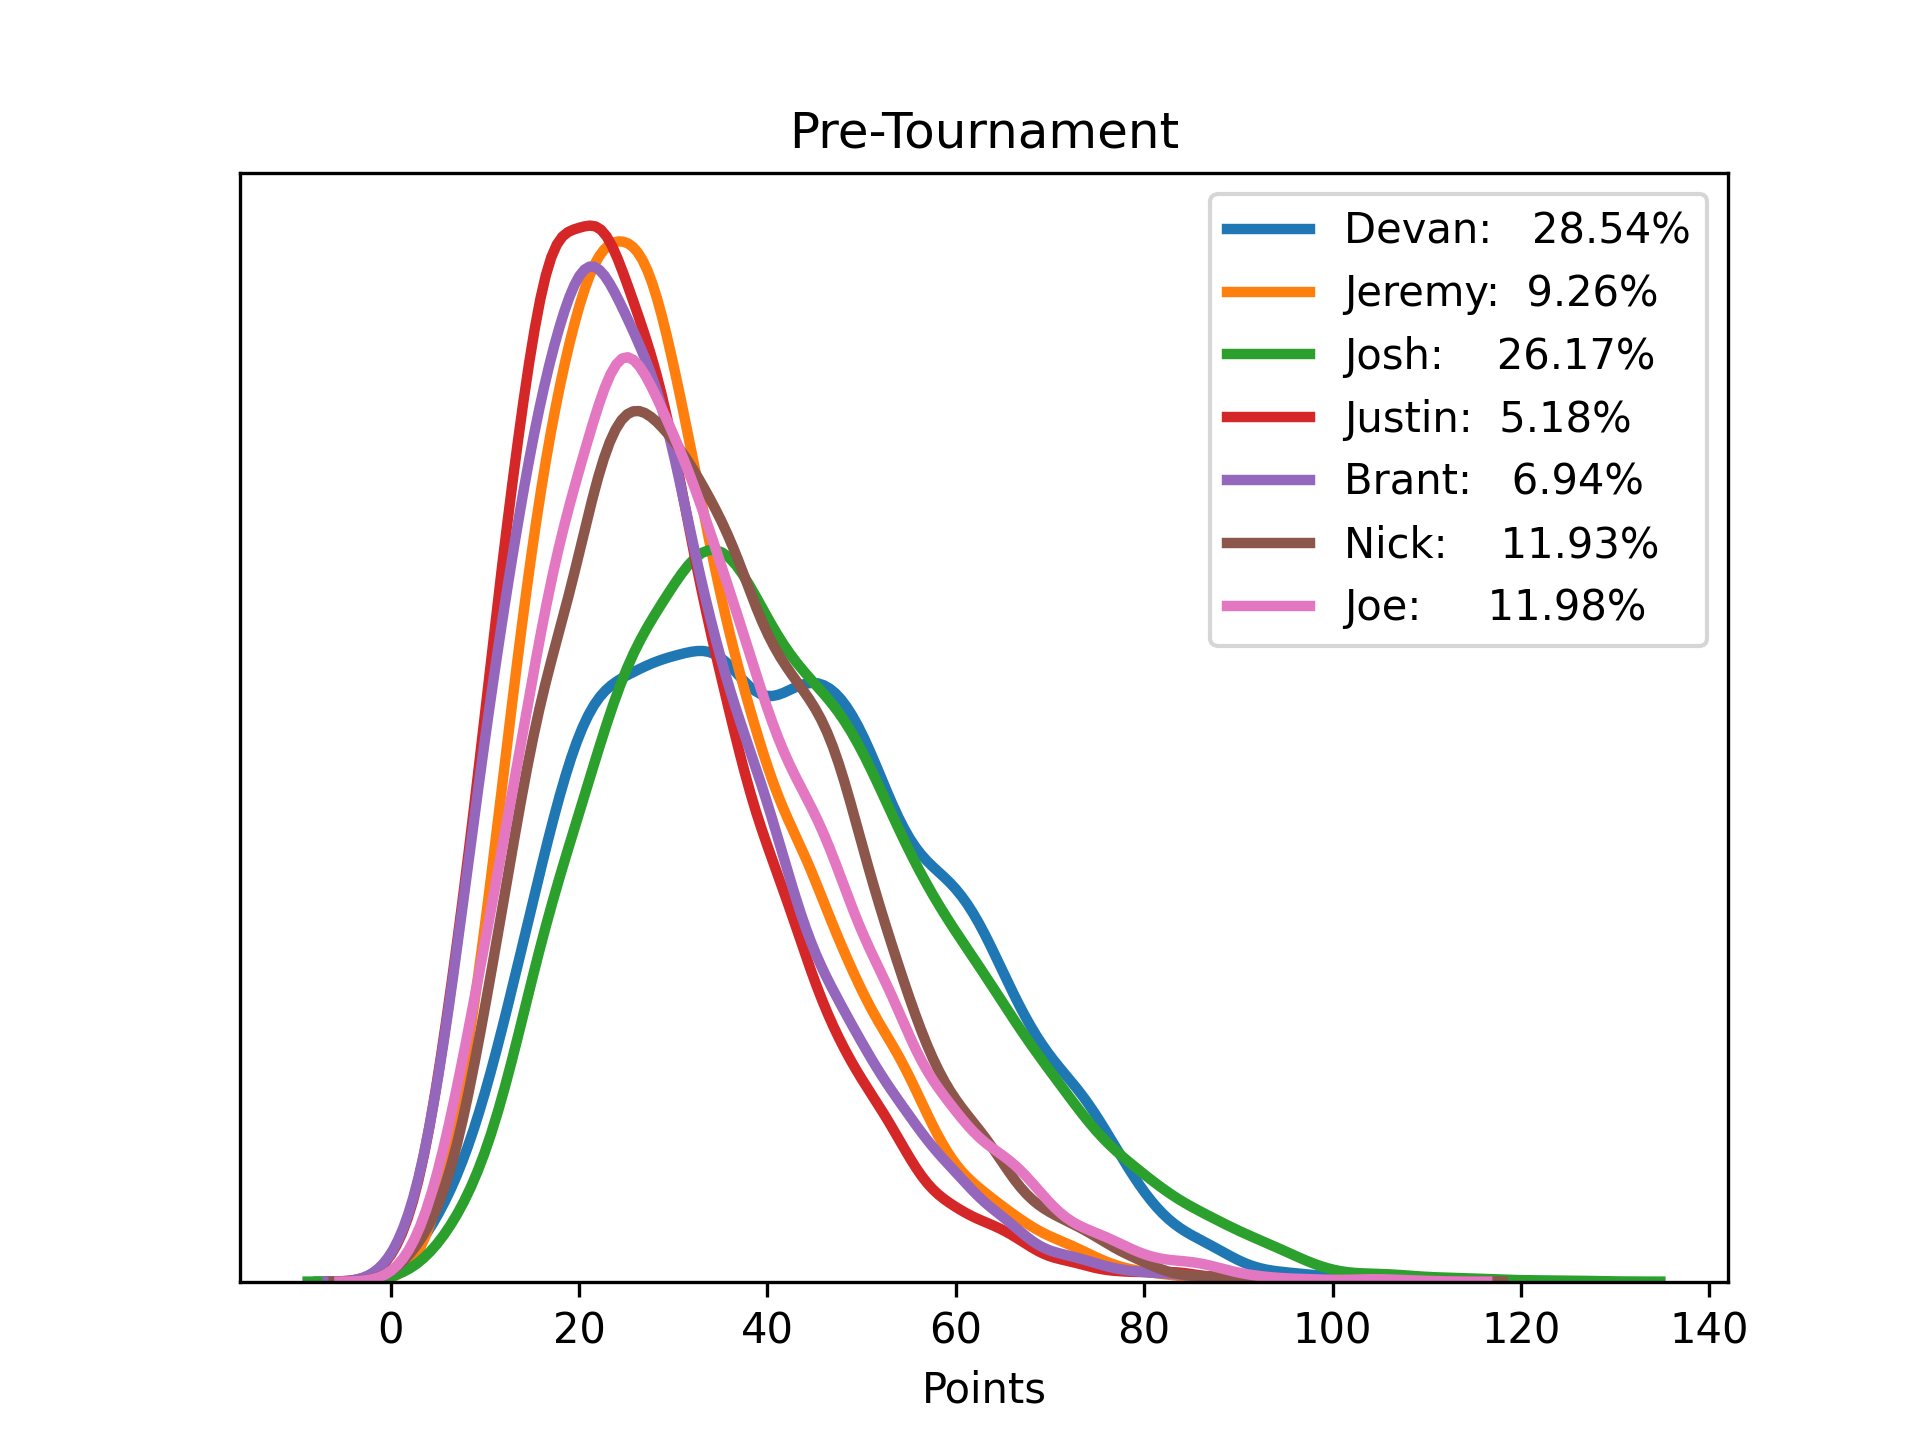
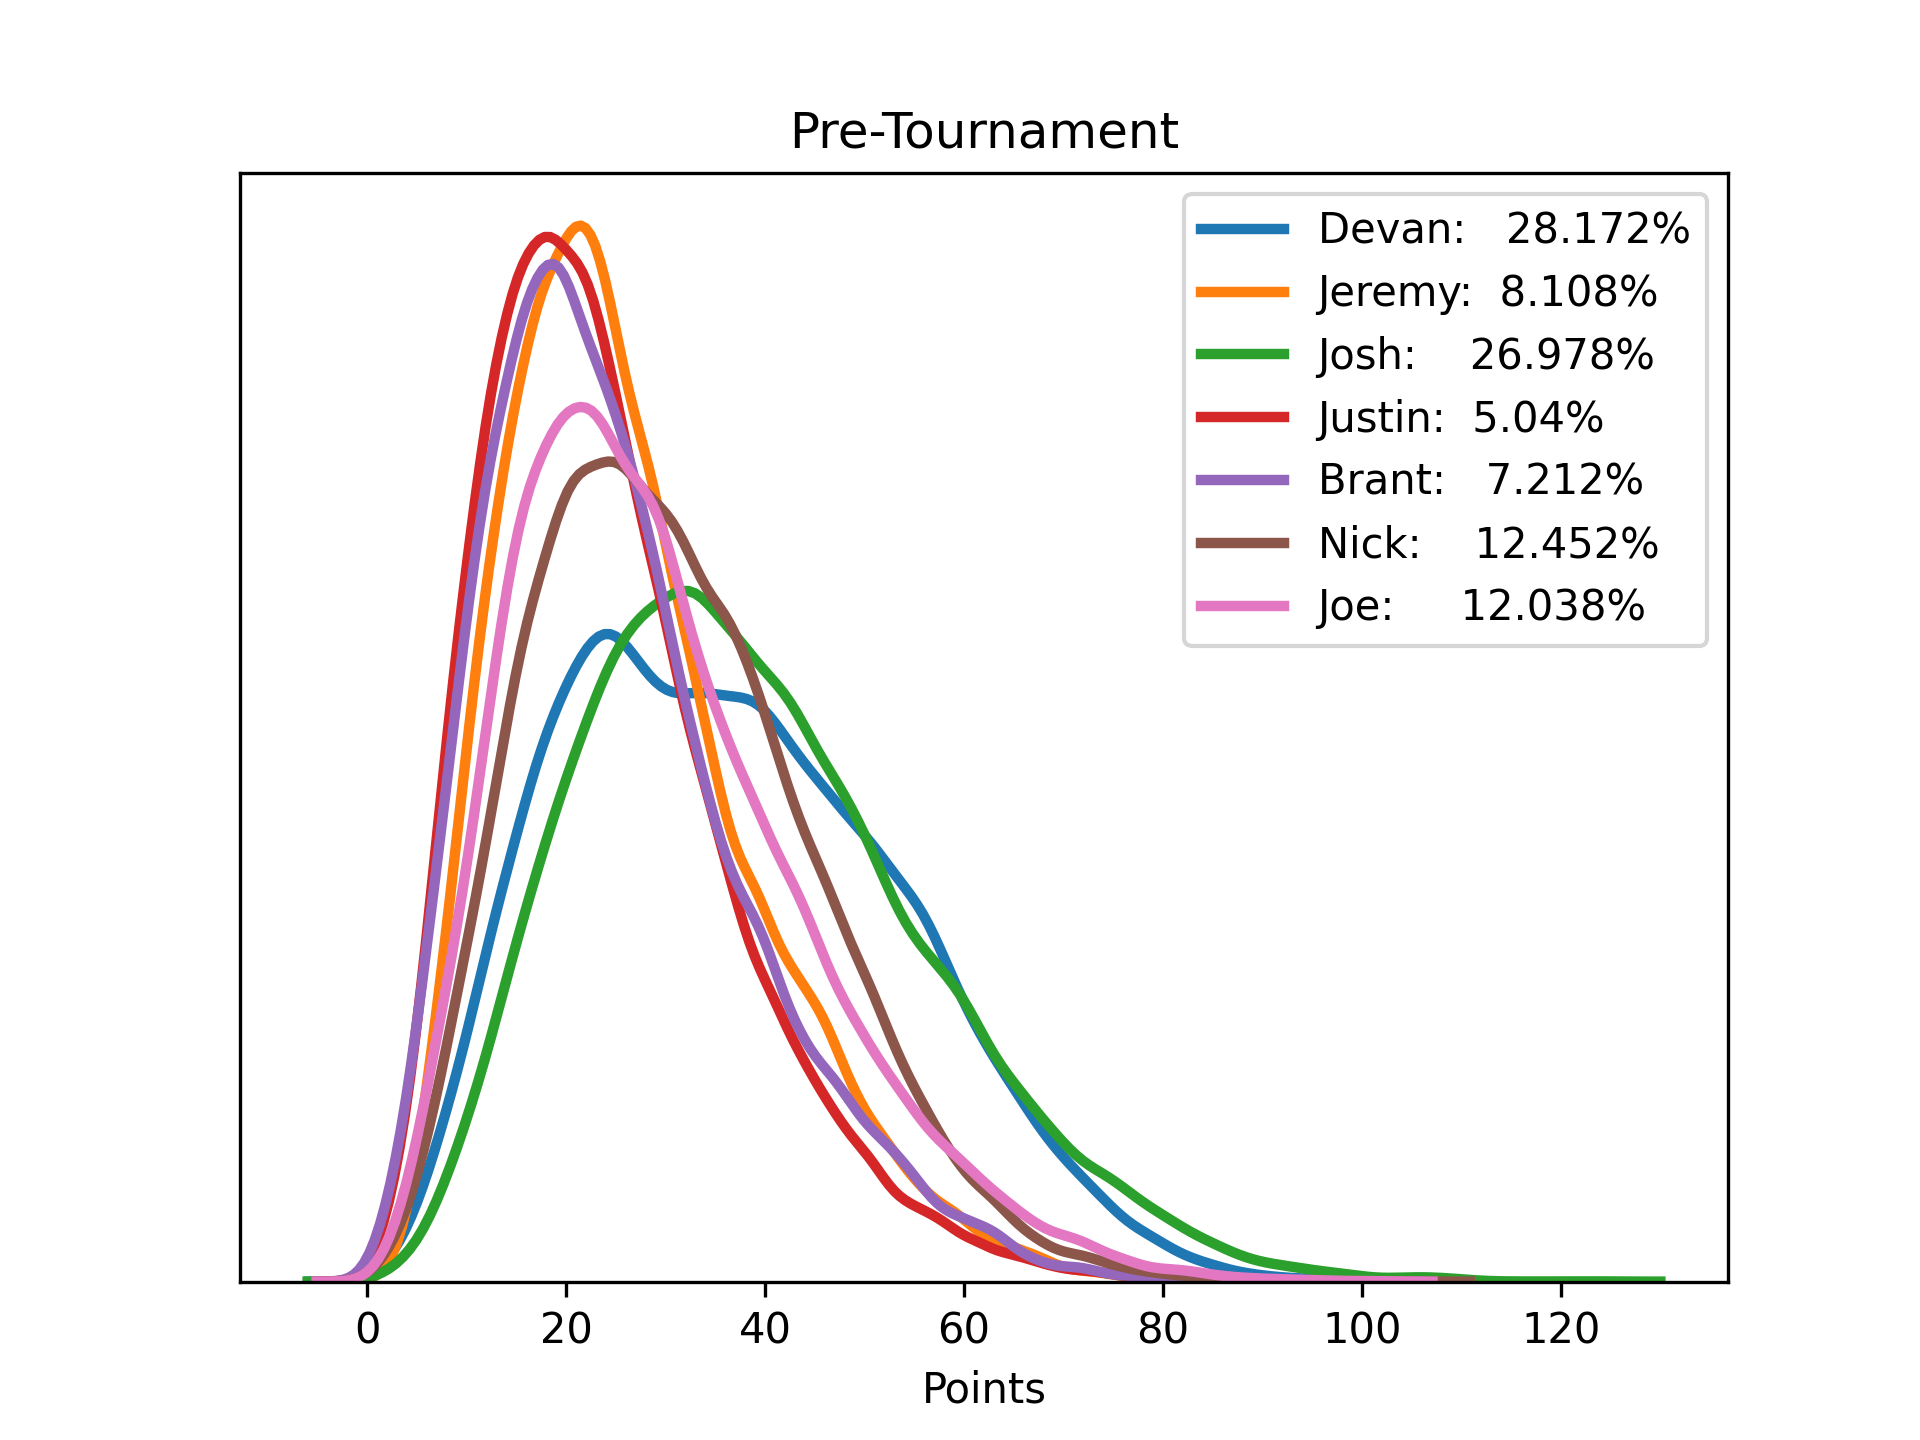
end of first weekend

diff --git a/MarchMadness_2023/simulate_tournament.py b/MarchMadness_2023/simulate_tournament.py
@@ -4,6 +4,7 @@ import pandas as pd
 import seaborn as sns
 import matplotlib.pyplot as plt
 from numpy import random, mean, var
+import math
 
 # import team objects
 from teams import *
@@ -52,21 +53,46 @@ def sim_game(team1, team2, round, points_dict, points_decided, force):
     
     return winner
 
+# This function is based on a logistic regression model
+# developed by Jeremy Frank during the 2023 tournament
 def blowout(winner, loser):
-    seed_diff = loser.seed - winner.seed + 15
+    blowout_pts = 0
 
-    over30 = seed_diff / 125
-    over20 = seed_diff / 100
-    over10 = seed_diff / 75
-    less10 = 1 - over30 - over20 - over10
+    ten_pt = 1 / ( 1 + math.exp(-1 * ( -0.3395 - 0.0785 * winner.seed + 0.09093 * loser.seed ) ))
+    ten_pct_prob = random.random()
 
-    return random.choice([0,1,2,3], p=[less10, over10, over20, over30])
+    # < 10 pt win
+    if(ten_pct_prob > ten_pt):
+        return blowout_pts
+    
+    blowout_pts += 1
+    twenty_pt = 1 / ( 1 + math.exp(-1 * ( -1.5551 - 0.0785 * winner.seed + 0.1107 * loser.seed ) ))
+    twenty_pct_prob = random.random()
+
+    # 10-19 pt win
+    if(twenty_pct_prob > twenty_pt):
+        return blowout_pts
+    
+    blowout_pts += 1
+    thirty_pt = 1 / ( 1 + math.exp(-1 * ( -1.1171 - 0.0551 * winner.seed + 0.0166 * loser.seed ) ))
+    thirty_pct_prob = random.random()
+
+    # 20-29 pt win
+    if(thirty_pct_prob > thirty_pt):
+        return blowout_pts
+    
+    # 30+ pt win
+    blowout_pts += 1
+
+    return blowout_pts
+
 
 #########################################################################################################
-headliner = "Pre-Tournament"
-i = 1
+headliner = "Gonzaga beats TCU"
+i = 53
 
 #########################################################################################################
+
 
 def sim_tournament():
 
@@ -74,58 +100,59 @@ def sim_tournament():
     points_decided = {"Devan": 0, "Jeremy": 0, "Josh": 0, "Justin": 0, "Brant": 0, "Nick": 0, "Joe": 0}
 
     # First Four
-    # 2022
-    mw_firstfour_11    = sim_game(mississippi_state, pittsburgh, -1, points_dict, points_decided, [])
-    west_firstfour_11  = sim_game(arizona_state, nevada, -1, points_dict, points_decided, [])
-    east_firstfour_16  = sim_game(texas_southern, fairleigh_dickinson, -1, points_dict, points_decided, [])
-    south_firstfour_16 = sim_game(texas_am_corpus_christi, southeast_missouri_state, -1, points_dict, points_decided, [])
+    # 2023
+    mw_firstfour_11    = sim_game(mississippi_state, pittsburgh, -1, points_dict, points_decided, [0,1])
+    west_firstfour_11  = sim_game(arizona_state, nevada, -1, points_dict, points_decided, [3, 0])
+    east_firstfour_16  = sim_game(texas_southern, fairleigh_dickinson, -1, points_dict, points_decided, [0,3])
+    south_firstfour_16 = sim_game(texas_am_corpus_christi, southeast_missouri_state, -1, points_dict, points_decided, [1,0])
+
 
     #####  West Region  #####
     # Round of 64
-    # 2022
-    r64_w_game1 = sim_game(kansas, howard, 64, points_dict, points_decided, [])
-    r64_w_game2 = sim_game(arkansas, illinois, 64, points_dict, points_decided, [])
-    r64_w_game3 = sim_game(saint_marys, vanderbilt, 64, points_dict, points_decided, [])
-    r64_w_game4 = sim_game(connecticut, iona, 64, points_dict, points_decided, [])
-    r64_w_game5 = sim_game(tcu, west_firstfour_11, 64, points_dict, points_decided, [])
-    r64_w_game6 = sim_game(gonzaga, grand_canyon, 64, points_dict, points_decided, [])
-    r64_w_game7 = sim_game(northwestern, boise_state, 64, points_dict, points_decided, [])
-    r64_w_game8 = sim_game(ucla, unc_asheville, 64, points_dict, points_decided, [])
+    # 2023
+    r64_w_game1 = sim_game(kansas, howard, 64, points_dict, points_decided, [3,0])
+    r64_w_game2 = sim_game(arkansas, illinois, 64, points_dict, points_decided, [2,0])
+    r64_w_game3 = sim_game(saint_marys, vcu, 64, points_dict, points_decided, [2,0])
+    r64_w_game4 = sim_game(connecticut, iona, 64, points_dict, points_decided, [3,0])
+    r64_w_game5 = sim_game(tcu, west_firstfour_11, 64, points_dict, points_decided, [1,0])
+    r64_w_game6 = sim_game(gonzaga, grand_canyon, 64, points_dict, points_decided, [2,0])
+    r64_w_game7 = sim_game(northwestern, boise_state, 64, points_dict, points_decided, [1,0])
+    r64_w_game8 = sim_game(ucla, unc_asheville, 64, points_dict, points_decided, [4,0])
 
     # Round of 32
-    r32_w_game1 = sim_game(r64_w_game1, r64_w_game2, 32, points_dict, points_decided, []) 
-    r32_w_game2 = sim_game(r64_w_game3, r64_w_game4, 32, points_dict, points_decided, []) 
-    r32_w_game3 = sim_game(r64_w_game5, r64_w_game6, 32, points_dict, points_decided, []) 
-    r32_w_game4 = sim_game(r64_w_game7, r64_w_game8, 32, points_dict, points_decided, []) 
+    r32_w_game1 = sim_game(r64_w_game1, r64_w_game2, 32, points_dict, points_decided, [0,1]) # Kansas vs Arkansas
+    r32_w_game2 = sim_game(r64_w_game3, r64_w_game4, 32, points_dict, points_decided, [0,2]) # Saint Mary's vs UConn
+    r32_w_game3 = sim_game(r64_w_game5, r64_w_game6, 32, points_dict, points_decided, [0,1]) # TCU vs Gonzaga
+    r32_w_game4 = sim_game(r64_w_game7, r64_w_game8, 32, points_dict, points_decided, [0,1]) # Northwestern vs UCLA
 
     # Sweet 16
-    r16_w_game1 = sim_game(r32_w_game1, r32_w_game2, 16, points_dict, points_decided, [])
-    r16_w_game2 = sim_game(r32_w_game3, r32_w_game4, 16, points_dict, points_decided, [])
+    r16_w_game1 = sim_game(r32_w_game1, r32_w_game2, 16, points_dict, points_decided, []) # Arkansas vs UConn
+    r16_w_game2 = sim_game(r32_w_game3, r32_w_game4, 16, points_dict, points_decided, []) # Gonzaga vs UCLA
 
     # Elite 8
     west_winner = sim_game(r16_w_game1, r16_w_game2, 8, points_dict, points_decided, [])
 
     ##### Midwest Region #####
     # Round of 64
-    # 2022
-    r64_mw_game1 = sim_game(houston, northern_kentucky, 64, points_dict, points_decided, [])
-    r64_mw_game2 = sim_game(iowa, auburn, 64, points_dict, points_decided, [])
-    r64_mw_game3 = sim_game(miami, drake, 64, points_dict, points_decided, [])
-    r64_mw_game4 = sim_game(indiana, kent_state, 64, points_dict, points_decided, [])
-    r64_mw_game5 = sim_game(iowa_state, mw_firstfour_11, 64, points_dict, points_decided, [])
-    r64_mw_game6 = sim_game(xavier, kennesaw_state, 64, points_dict, points_decided, [])
-    r64_mw_game7 = sim_game(texas_am, penn_state, 64, points_dict, points_decided, [])
-    r64_mw_game8 = sim_game(texas, colgate, 64, points_dict, points_decided, [])
+    # 2023
+    r64_mw_game1 = sim_game(houston, northern_kentucky, 64, points_dict, points_decided, [2,0])
+    r64_mw_game2 = sim_game(iowa, auburn, 64, points_dict, points_decided, [0,1])
+    r64_mw_game3 = sim_game(miami, drake, 64, points_dict, points_decided, [1,0])
+    r64_mw_game4 = sim_game(indiana, kent_state, 64, points_dict, points_decided, [2,0])
+    r64_mw_game5 = sim_game(iowa_state, mw_firstfour_11, 64, points_dict, points_decided, [0,2])
+    r64_mw_game6 = sim_game(xavier, kennesaw_state, 64, points_dict, points_decided, [1,0])
+    r64_mw_game7 = sim_game(texas_am, penn_state, 64, points_dict, points_decided, [0,2])
+    r64_mw_game8 = sim_game(texas, colgate, 64, points_dict, points_decided, [3,0])
 
     # Round of 32
-    r32_mw_game1 = sim_game(r64_mw_game1, r64_mw_game2, 32, points_dict, points_decided, [])
-    r32_mw_game2 = sim_game(r64_mw_game3, r64_mw_game4, 32, points_dict, points_decided, [])
-    r32_mw_game3 = sim_game(r64_mw_game5, r64_mw_game6, 32, points_dict, points_decided, [])
-    r32_mw_game4 = sim_game(r64_mw_game7, r64_mw_game8, 32, points_dict, points_decided, [])
+    r32_mw_game1 = sim_game(r64_mw_game1, r64_mw_game2, 32, points_dict, points_decided, [2,0]) # Houston vs Auburn
+    r32_mw_game2 = sim_game(r64_mw_game3, r64_mw_game4, 32, points_dict, points_decided, [2,0]) # Miami vs Indiana
+    r32_mw_game3 = sim_game(r64_mw_game5, r64_mw_game6, 32, points_dict, points_decided, [0,2]) # Pittsburgh vs Xavier
+    r32_mw_game4 = sim_game(r64_mw_game7, r64_mw_game8, 32, points_dict, points_decided, [0,1]) # Penn State vs Texas
 
     # Sweet 16
-    r16_mw_game1 = sim_game(r32_mw_game1, r32_mw_game2, 16, points_dict, points_decided, [])
-    r16_mw_game2 = sim_game(r32_mw_game3, r32_mw_game4, 16, points_dict, points_decided, [])
+    r16_mw_game1 = sim_game(r32_mw_game1, r32_mw_game2, 16, points_dict, points_decided, []) # Houston vs Miami
+    r16_mw_game2 = sim_game(r32_mw_game3, r32_mw_game4, 16, points_dict, points_decided, []) # Xavier vs Texas
 
     # Elite 8
     midwest_winner = sim_game(r16_mw_game1, r16_mw_game2, 8, points_dict, points_decided, [])
@@ -133,50 +160,50 @@ def sim_tournament():
 
     ##### East Region    #####
     # Round of 64
-    # 2022
-    r64_e_game1 = sim_game(purdue, east_firstfour_16, 64, points_dict, points_decided, [])
-    r64_e_game2 = sim_game(memphis, florida_atlantic, 64, points_dict, points_decided, [])
-    r64_e_game3 = sim_game(duke, oral_roberts, 64, points_dict, points_decided, [])
-    r64_e_game4 = sim_game(tennessee, louisiana, 64, points_dict, points_decided, [])
-    r64_e_game5 = sim_game(kentucky, providence, 64, points_dict, points_decided, [])
-    r64_e_game6 = sim_game(kansas_state, montana_state, 64, points_dict, points_decided, [])
-    r64_e_game7 = sim_game(michigan_state, usc, 64, points_dict, points_decided, [])
-    r64_e_game8 = sim_game(marquette, vermont, 64, points_dict, points_decided, [])
+    # 2023
+    r64_e_game1 = sim_game(purdue, east_firstfour_16, 64, points_dict, points_decided, [0,1])
+    r64_e_game2 = sim_game(memphis, florida_atlantic, 64, points_dict, points_decided, [0,1])
+    r64_e_game3 = sim_game(duke, oral_roberts, 64, points_dict, points_decided, [3,0])
+    r64_e_game4 = sim_game(tennessee, louisiana, 64, points_dict, points_decided, [1,0])
+    r64_e_game5 = sim_game(kentucky, providence, 64, points_dict, points_decided, [1,0])
+    r64_e_game6 = sim_game(kansas_state, montana_state, 64, points_dict, points_decided, [2,0])
+    r64_e_game7 = sim_game(michigan_state, usc, 64, points_dict, points_decided, [2,0])
+    r64_e_game8 = sim_game(marquette, vermont, 64, points_dict, points_decided, [2,0])
 
     # Round of 32
-    r32_e_game1 = sim_game(r64_e_game1, r64_e_game2, 32, points_dict, points_decided, [])
-    r32_e_game2 = sim_game(r64_e_game3, r64_e_game4, 32, points_dict, points_decided, [])
-    r32_e_game3 = sim_game(r64_e_game5, r64_e_game6, 32, points_dict, points_decided, [])
-    r32_e_game4 = sim_game(r64_e_game7, r64_e_game8, 32, points_dict, points_decided, [])
+    r32_e_game1 = sim_game(r64_e_game1, r64_e_game2, 32, points_dict, points_decided, [0,1]) # Fairleigh Dickinson vs Florida Atlantic
+    r32_e_game2 = sim_game(r64_e_game3, r64_e_game4, 32, points_dict, points_decided, [0,2]) # Duke vs Tennessee
+    r32_e_game3 = sim_game(r64_e_game5, r64_e_game6, 32, points_dict, points_decided, [0,1]) # Kentucky vs Kansas State
+    r32_e_game4 = sim_game(r64_e_game7, r64_e_game8, 32, points_dict, points_decided, [1,0]) # Michigan State vs Marquette
 
     # Sweet 16
-    r16_e_game1 = sim_game(r32_e_game1, r32_e_game2, 16, points_dict, points_decided, [])
-    r16_e_game2 = sim_game(r32_e_game3, r32_e_game4, 16, points_dict, points_decided, [])
+    r16_e_game1 = sim_game(r32_e_game1, r32_e_game2, 16, points_dict, points_decided, []) # Florida Atlantic vs Tennessee
+    r16_e_game2 = sim_game(r32_e_game3, r32_e_game4, 16, points_dict, points_decided, []) # Kansas State vs Michigan State
 
     # Elite 8
     east_winner = sim_game(r16_e_game1, r16_e_game2, 8, points_dict, points_decided, [])
 
     ##### South Region   #####
     # Round of 64
-    # 2022
-    r64_s_game1 = sim_game(alabama, south_firstfour_16, 64, points_dict, points_decided, [])
-    r64_s_game2 = sim_game(maryland, west_virginia, 64, points_dict, points_decided, [])
-    r64_s_game3 = sim_game(san_diego_state, charleston, 64, points_dict, points_decided, [])
-    r64_s_game4 = sim_game(virginia, furman, 64, points_dict, points_decided, [])
-    r64_s_game5 = sim_game(creighton, north_carolina_state, 64, points_dict, points_decided, [])
-    r64_s_game6 = sim_game(baylor, uc_santa_barbara, 64, points_dict, points_decided, [])
-    r64_s_game7 = sim_game(missouri, utah_state, 64, points_dict, points_decided, [])
-    r64_s_game8 = sim_game(arizona, princeton, 64, points_dict, points_decided, [])
+    # 2023
+    r64_s_game1 = sim_game(alabama, south_firstfour_16, 64, points_dict, points_decided, [3,0])
+    r64_s_game2 = sim_game(maryland, west_virginia, 64, points_dict, points_decided, [1,0])
+    r64_s_game3 = sim_game(san_diego_state, charleston, 64, points_dict, points_decided, [1,0])
+    r64_s_game4 = sim_game(virginia, furman, 64, points_dict, points_decided, [0,1])
+    r64_s_game5 = sim_game(creighton, north_carolina_state, 64, points_dict, points_decided, [1,0])
+    r64_s_game6 = sim_game(baylor, uc_santa_barbara, 64, points_dict, points_decided, [2,0])
+    r64_s_game7 = sim_game(missouri, utah_state, 64, points_dict, points_decided, [2,0])
+    r64_s_game8 = sim_game(arizona, princeton, 64, points_dict, points_decided, [0,1])
 
     # Round of 32
-    r32_s_game1 = sim_game(r64_s_game1, r64_s_game2, 32, points_dict, points_decided, [])
-    r32_s_game2 = sim_game(r64_s_game3, r64_s_game4, 32, points_dict, points_decided, [])
-    r32_s_game3 = sim_game(r64_s_game5, r64_s_game6, 32, points_dict, points_decided, [])
-    r32_s_game4 = sim_game(r64_s_game7, r64_s_game8, 32, points_dict, points_decided, [])
+    r32_s_game1 = sim_game(r64_s_game1, r64_s_game2, 32, points_dict, points_decided, [3,0]) # Alabama vs Maryland
+    r32_s_game2 = sim_game(r64_s_game3, r64_s_game4, 32, points_dict, points_decided, [3,0]) # San Diego State vs Furman
+    r32_s_game3 = sim_game(r64_s_game5, r64_s_game6, 32, points_dict, points_decided, [1,0]) # Creighton vs Baylor
+    r32_s_game4 = sim_game(r64_s_game7, r64_s_game8, 32, points_dict, points_decided, [0,2]) # Missouri vs Princeton
 
     # Sweet 16
-    r16_s_game1 = sim_game(r32_s_game1, r32_s_game2, 16, points_dict, points_decided, [])
-    r16_s_game2 = sim_game(r32_s_game3, r32_s_game4, 16, points_dict, points_decided, [])
+    r16_s_game1 = sim_game(r32_s_game1, r32_s_game2, 16, points_dict, points_decided, []) # Alabama vs San Diego State
+    r16_s_game2 = sim_game(r32_s_game3, r32_s_game4, 16, points_dict, points_decided, []) # Creighton vs Princeton
 
     # Elite 8
     south_winner = sim_game(r16_s_game1, r16_s_game2, 8, points_dict, points_decided, [])
@@ -187,6 +214,7 @@ def sim_tournament():
 
     # Championship
     champion = sim_game(east_west_winner, south_midwest_winner, 2, points_dict, points_decided, [])
+    champion.championships += 1
 
     return points_dict, points_decided
 
@@ -232,7 +260,8 @@ def sim_many_tournaments(num_sims):
     print("<--- Average points scored --->")
     print(avg_points)
 
-sim_many_tournaments(10000)
+
+sim_many_tournaments(100_000)
 # plot density function for owners with non-zero variance
 legend_list = []
 THICKNESS = 2.5
@@ -240,7 +269,6 @@ THICKNESS = 2.5
 if(var(Devan)):
     sns.kdeplot(Devan, linewidth=THICKNESS, color="tab:blue")
     legend_list.append("Devan:   {0}%".format(num_wins["Devan"]))
-
 
 if(var(Jeremy)):
     sns.kdeplot(Jeremy, linewidth=THICKNESS, color="tab:orange")
@@ -254,10 +282,10 @@ if(var(Justin)):
     sns.kdeplot(Justin, linewidth=THICKNESS, color="tab:red")
     legend_list.append("Justin:  {0}%".format(num_wins["Justin"]))
 
-
-if(var(Brant)):
-    sns.kdeplot(Brant, linewidth=THICKNESS, color="tab:purple")
-    legend_list.append("Brant:   {0}%".format(num_wins["Brant"]))
+# Brant's odds are < 1%
+# if(var(Brant)):
+#     sns.kdeplot(Brant, linewidth=THICKNESS, color="tab:purple")
+#     legend_list.append("Brant:   {0}%".format(num_wins["Brant"]))
 
 if(var(Nick)):
     sns.kdeplot(Nick, linewidth=THICKNESS, color="tab:brown")
@@ -274,4 +302,4 @@ plt.ylabel("")
 plt.yticks([])
 plt.legend(legend_list)
 plt.savefig(f"./mm_figs/mm_{i}.png", dpi=300)
-plt.show()
+#plt.show()
